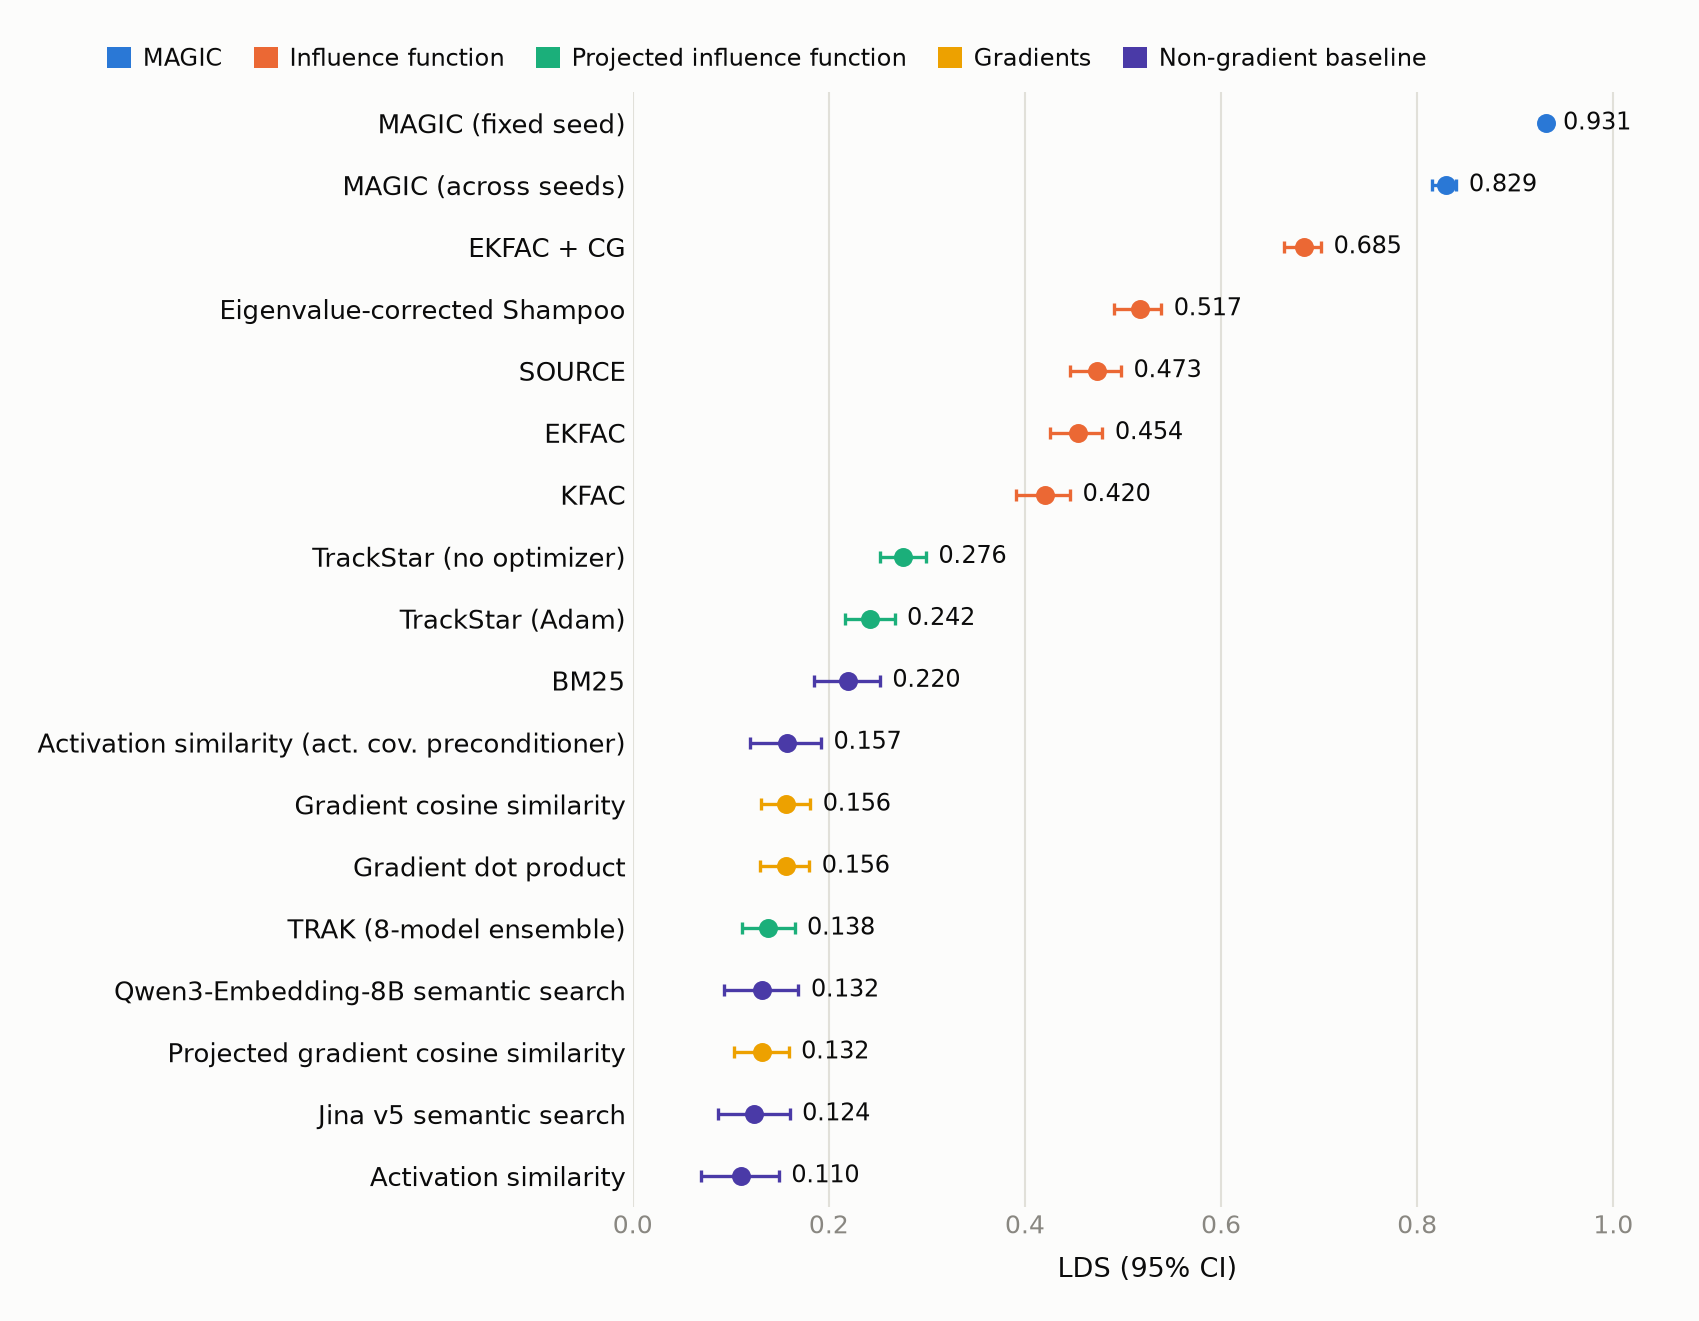
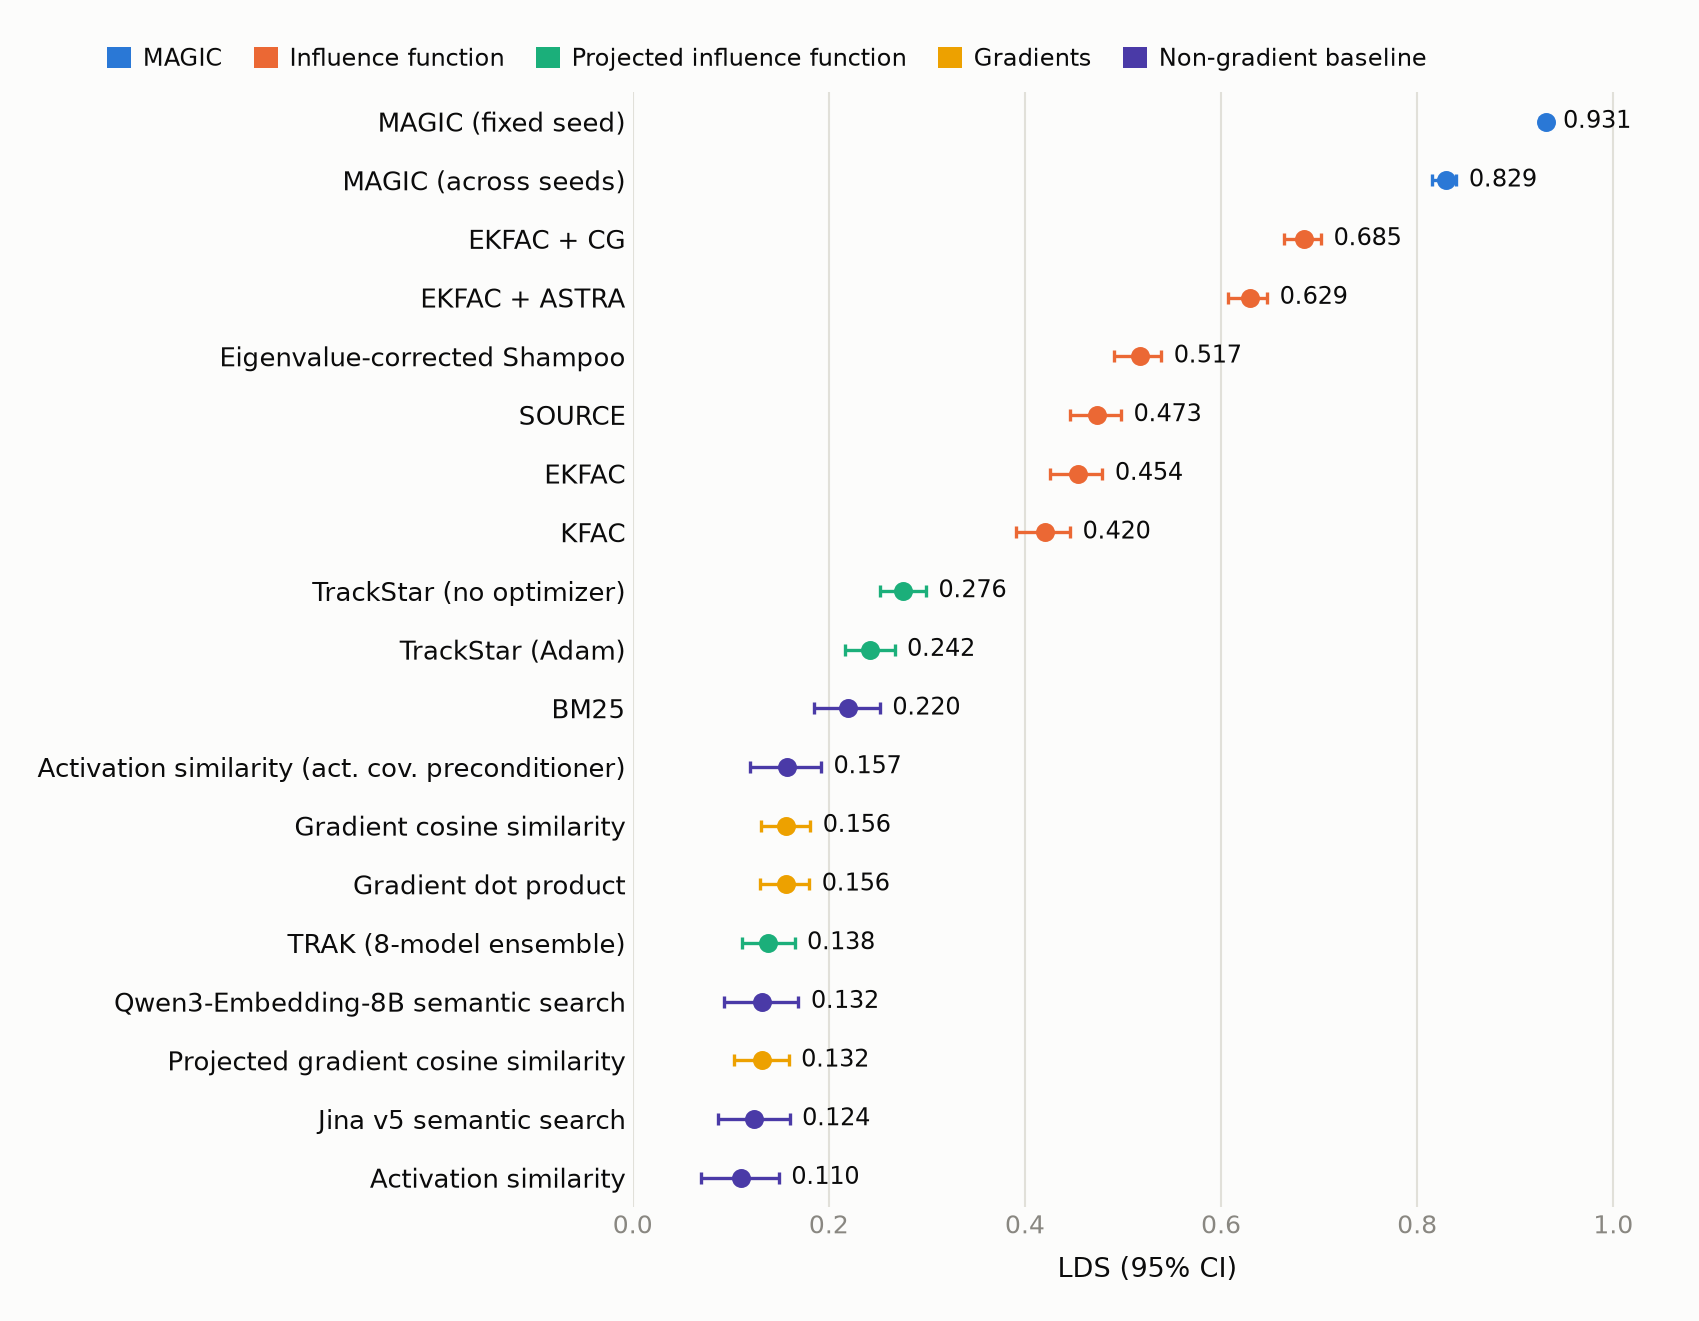
Add the EKFAC + ASTRA (paper scaling) row back

diff --git a/leaderboard_plots.py b/leaderboard_plots.py
@@ -32,6 +32,8 @@ ROWS = [
      (0.829, 0.815, 0.840), (0.098, 0.087, 0.110), None),
     ("EKFAC + CG", "influence",
      (0.685, 0.664, 0.702), (0.077, 0.066, 0.089), (1.014, 0.986, 1.043)),
+    ("EKFAC + ASTRA", "influence",
+     (0.629, 0.607, 0.647), (0.071, 0.060, 0.084), None),
     ("Eigenvalue-corrected Shampoo", "influence",
      (0.517, 0.491, 0.539), (0.071, 0.060, 0.082), (0.922, 0.887, 0.957)),
     ("SOURCE", "influence",
